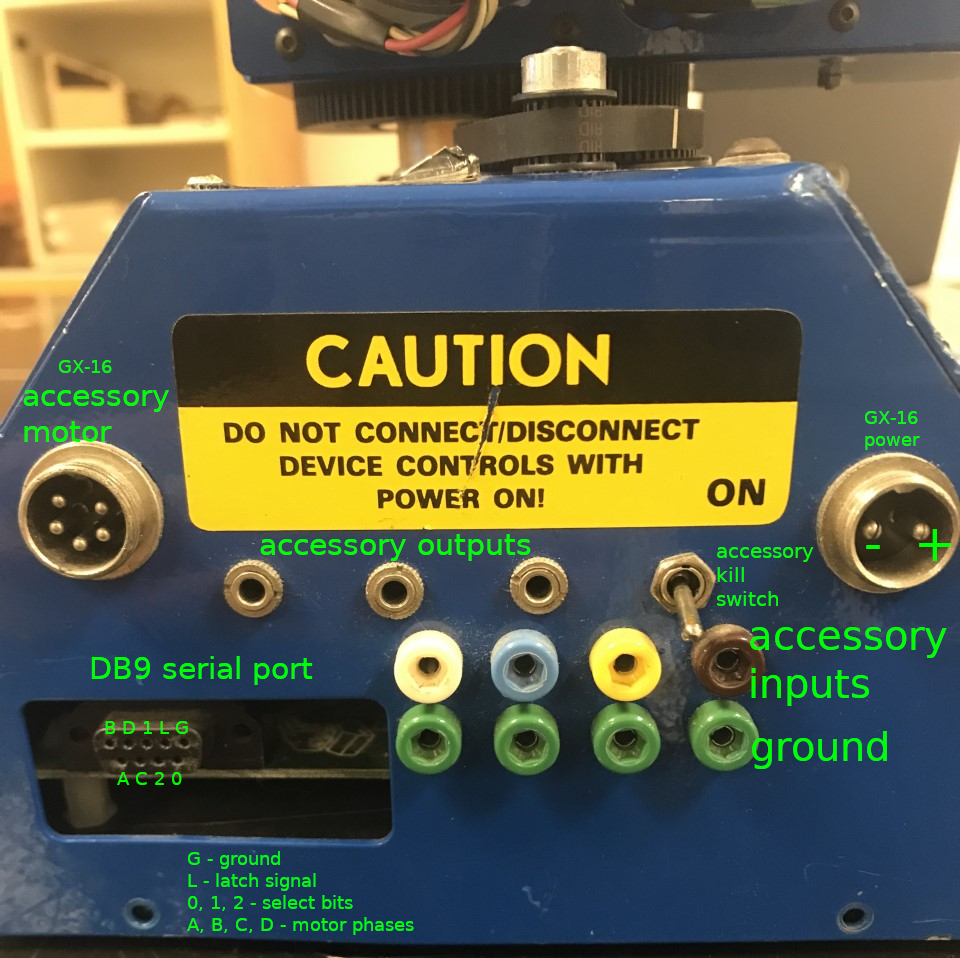
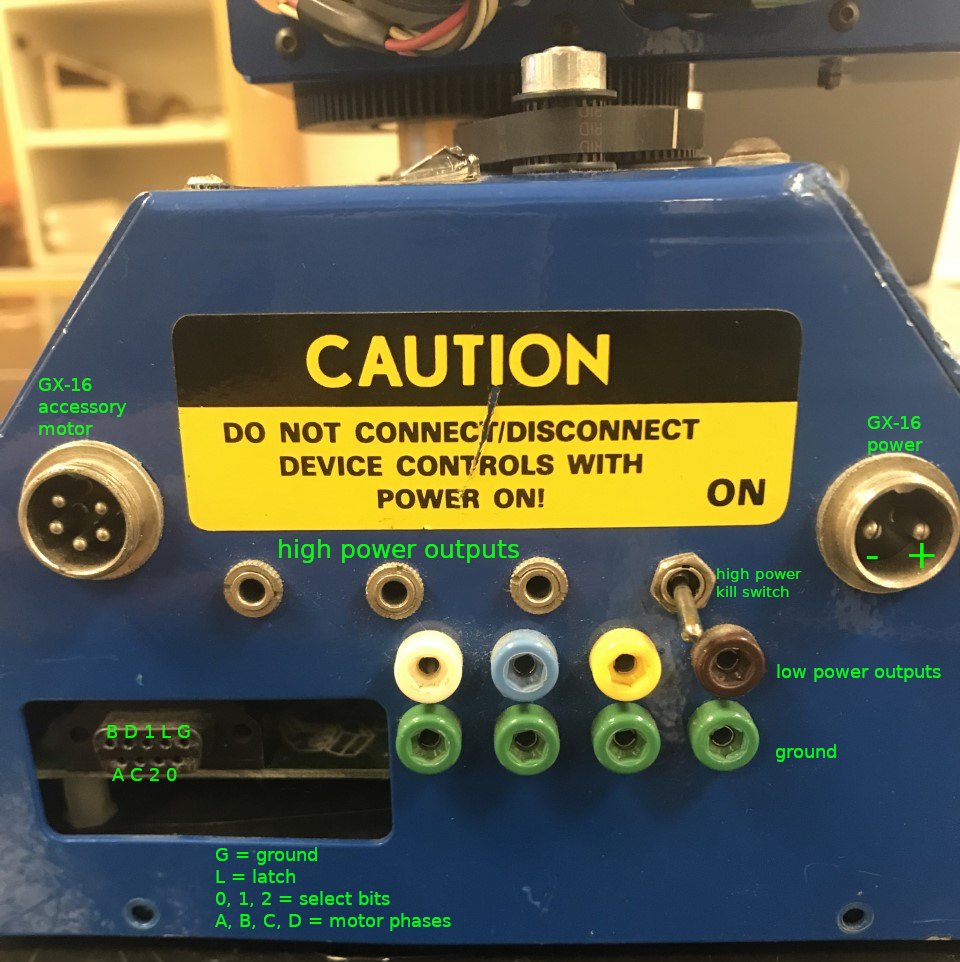
fix input-output typo

diff --git a/aaaa/images/index.md b/aaaa/images/index.md
@@ -16,7 +16,7 @@ Here's all the power connectors on the base:
 %%% figure
     ![base connectors]({attach}start/front.png)
 
-    %: I got the DB9 pinout from [here](https://armdroid1000.wordpress.com/control-protocol/). AFAIK, that pinout is correct. However, **the "accessory inputs" annotations are all WRONG**. The ones I have marked "accessory outputs" are indeed outputs and are driven by the same driver IC as the stepper motors, so they can do the same 380 mA as the motors at the 12V or whatever that is supplied. **The ones marked "accessory inputs" are NOT inputs. They are lower power logic outputs (0-5V, 20 mA).**
+    %: I got the DB9 pinout from [here](https://armdroid1000.wordpress.com/control-protocol/).
 
 The fourth accessory output is mounted on the shoulder.
 
@@ -76,7 +76,7 @@ The circuit board inside contains a bunch of microchips in sockets (most from th
 
 Dan Kohn has done the work of figuring out the general schematic of the circuit inside (although his pinout of the DB9 connector differs from the one I found above). You can find his schematic [here](http://dankohn.info/projects/armdroid_1000/schematic.pdf) (and if that goes down, there's a link to a local copy [here]({filename}../resources/index.md)). His part numbers differ slightly, but they're just different companies' takes of the same functional component.
 
-There is more point-to-point wiring inside the base (here of the broken Armdroid, 1106). The motors all come down and terminate in a plug (including the accessory motor port wires), and there is a large reverse-polarity protection diode on the power connector. The positive wires also go through a kill switch and to one terminal of each of the accessory outputs. The inputs are wired to their own plug.
+There is more point-to-point wiring inside the base (here of the broken Armdroid, 1106). The motors all come down and terminate in a plug (including the accessory motor port wires), and there is a large reverse-polarity protection diode on the power connector. The positive wires also go through a kill switch and to one terminal of each of the accessory outputs. The low power outputs are wired to their own plug.
 
 %%% figure
     ![inside base]({attach}start/inside_base.png)

diff --git a/aaaa/index.md b/aaaa/index.md
@@ -16,7 +16,7 @@ The Armdroid 1000 is about two feet tall at its tallest, and weighs about eight 
 
 The Armdroid 1000's base contains no microprocessor - all the circuit does is demultiplex the signals from an eight-bit serial port into the six motors. The software implements the control signal generation.
 
-The Armdroid 1000 also includes four digital sensor inputs mounted on the base, four accessory outputs (three on the base and one on the shoulder), and a seventh accessory motor output connector (5-pin GX-16) on the base.
+The Armdroid 1000 also includes four low-power (0-5V TTL) outputs mounted on the base, four high-power outputs (three on the base and one on the shoulder), and a seventh accessory motor output connector (5-pin GX-16) on the base.
 
 ## Power
 
